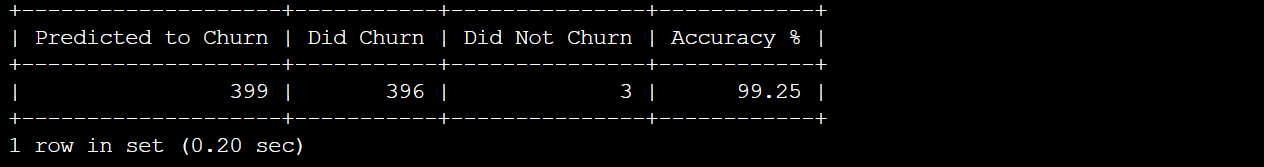
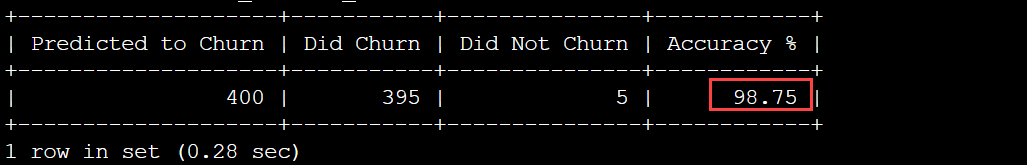
Added instructions to reboot writer node, after associating  modifying parameters. Added new screenshot.

diff --git a/docs/ml/sagemaker/index.md b/docs/ml/sagemaker/index.md
@@ -65,19 +65,21 @@ aws rds modify-db-cluster-parameter-group \
 ```
 
 ## 5. Apply the new parameter to the database cluster.
-Reboot the cluster for the change to take effect by executing the commands below. Replacing the ==labstack-cluster== placeholder with the  name of your DB cluster.
+Reboot the db instance so the change can take effect, by executing the commands below.
 
 ``` shell
-aws rds failover-db-cluster --db-cluster-identifier labstack-cluster
+aws rds reboot-db-instance --db-instance-identifier $(aws rds describe-db-clusters --db-cluster-identifier labstack-cluster --query 'DBClusters[*].[DBClusterMembers[?IsClusterWriter==`true`].DBInstanceIdentifier]' --output text)
+
 ```
 Run the following command and wait until the output shows as **"available"**, before moving on to the next step.
 
 ``` shell
-aws rds describe-db-clusters --db-cluster-identifier labstack-cluster \
---query 'DBClusters[*].[Status]' --output text
+aws rds describe-db-instances --db-instance-identifier \
+$(aws rds describe-db-clusters --db-cluster-identifier labstack-cluster --query 'DBClusters[*].[DBClusterMembers[?IsClusterWriter==`true`].DBInstanceIdentifier]' --output text) --query 'DBInstances[*].[DBInstanceStatus]' --output text
+
 ```
 
-<span class="image">![Reader Load](/ml/comprehend/2-dbcluster-available.png?raw=true)</span>
+<span class="image">![Reader Load](/ml/sagemaker/3-db-sintance-available.png?raw=true)</span>
 
 
 ## 6.Create SageMaker function
@@ -144,7 +146,7 @@ WHERE will_churn(state, acc_length,
        cust_service_calls) like 'True%';  
 ```
 
-You can observe that based on the following output, our Sagemake model is 99.25% accurate.
+You can observe that based on the following output, our Sagemake model is 98.75% accurate.
 
 <span class="image">![Reader Load](/ml/sagemaker/2-sagemaker-function-out.png?raw=true)</span>
 

diff --git a/docs/ml/comprehend/index.md b/docs/ml/comprehend/index.md
@@ -62,18 +62,22 @@ aws rds modify-db-cluster-parameter-group \
 ```
 
 ## 5. Apply the new parameter to the database cluster.
-Reboot the cluster for the change to take effect by executing the commands below.
+Reboot the db instance so the change can take effect, by executing the commands below.
 
 ``` shell
-aws rds failover-db-cluster --db-cluster-identifier labstack-cluster
+aws rds reboot-db-instance --db-instance-identifier $(aws rds describe-db-clusters --db-cluster-identifier labstack-cluster --query 'DBClusters[*].[DBClusterMembers[?IsClusterWriter==`true`].DBInstanceIdentifier]' --output text)
+
+
 ```
 Run the following command and wait until the output shows as **"available"**, before moving on to the next step.  
 
 ``` shell
-aws rds describe-db-clusters --db-cluster-identifier labstack-cluster \
---query 'DBClusters[*].[Status]' --output text
+aws rds describe-db-instances --db-instance-identifier \
+$(aws rds describe-db-clusters --db-cluster-identifier labstack-cluster --query 'DBClusters[*].[DBClusterMembers[?IsClusterWriter==`true`].DBInstanceIdentifier]' --output text) --query 'DBInstances[*].[DBInstanceStatus]' --output text
+
+
 ```
-<span class="image">![Reader Load](/ml/comprehend/2-dbcluster-available.png?raw=true)</span>
+<span class="image">![Reader Load](/ml/sagemaker/3-db-sintance-available.png?raw=true)</span>
 
 
 ## 6. Connect to the Aurora cluster and execute SQL commands to create and use Comprehend function
